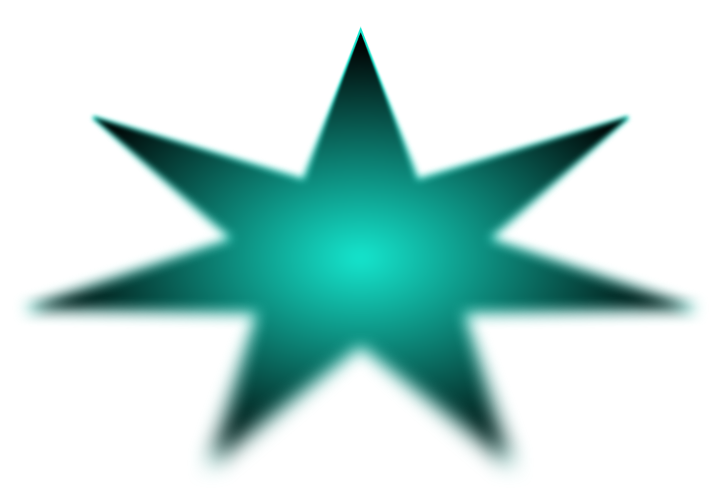
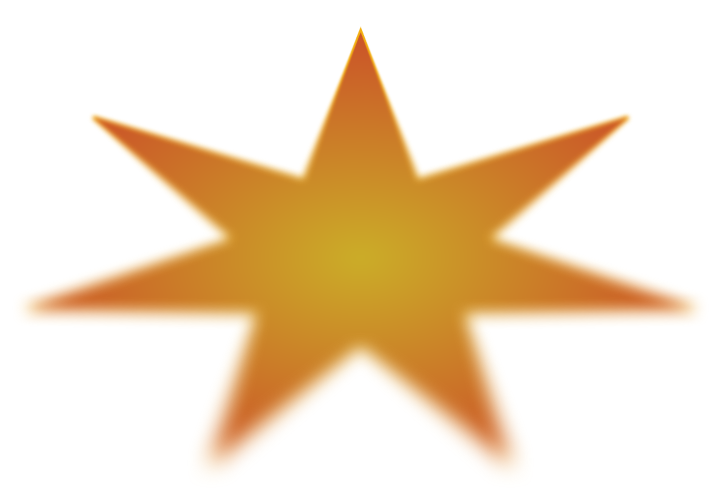
improve stats and main star is yellow

diff --git a/src/App.css b/src/App.css
@@ -108,7 +108,7 @@ body{
 .stats .left p{
   /* width: 121px; */
   border-radius: 10px;
-  padding: 6px 4px;
+  padding: 0px 0px;
   margin: 0;
   font-size: 14px;
   font-weight: 500;
@@ -117,27 +117,60 @@ body{
 .register{
   display: flex;
   /* background-color: #d9d9d9; */
-  border-radius: 5px;
+  /* border-radius: 5px; */
   align-items: center;
+  /* border: solid 1px red; */
+
 }
 .registerCount{
   width: 50px;
-  color: black;
-  background-color: white;
+  /* color: black;
+  background-color: white; */
     display: flex;
   justify-content: center;
   align-items: center;
   gap: 7px;
   font-weight: 600 !important;
 padding: 0 !important;
-height: 30px;
+/* height: 30px; */
 border-radius: 6px !important;
+  /* color: #808080; */
 
 }
+.registerCash{
+  color: #808080;
+}
+
+.loading{
+  display: flex;
+  /* border-radius: 10px; */
+  align-items: center;
+  /* border: solid 1px red; */
+
+}
+.loadingCount{
+  display: flex;
+  justify-content: center;
+  align-items: center;
+  gap: 7px;
+  /* width: 106px; */
+  width: 50px;
+  font-weight: 600 !important;
+padding: 0 !important;
+/* height: 30px; */
+  /* color: #000000; */
+  /* background-color: #ffffff; */
+border-radius: 6px !important;
+}
+.loadingCash{
+  color: #808080;
+}
+
 .cheking{
   display: flex;
-  border-radius: 10px;
+  /* border-radius: 10px; */
   align-items: center;
+  /* border: solid 1px red; */
 
   /* background-color: #CBB990; */
 }
@@ -150,11 +183,13 @@ border-radius: 6px !important;
   width: 50px;
   font-weight: 600 !important;
 padding: 0 !important;
-height: 30px;
-  color: #000000;
-  background-color: #ffffff;
+/* height: 30px; */
+  /* color: #000000;
+  background-color: #ffffff; */
 border-radius: 6px !important;
-
+}
+.chekingCash{
+  color: #808080;
 }
 
 .paid{
@@ -178,6 +213,7 @@ border-radius: 6px !important;
   align-items: start;
   font-size: 14px;
   padding: 6px;
+  gap: 2px;
   /* border: solid 1px rgb(4, 255, 0); */
 
 }

diff --git a/src/App.jsx b/src/App.jsx
@@ -8,6 +8,7 @@ import { supabase } from './lib/supabase';
 
 import courierIcon from './assets/courier.svg';
 import zoomIcon from './assets/zoom.svg';
+import loadingIcon from './assets/loading.svg';
 
 // Импорт звёзд
 import star1 from './assets/Star.png';
@@ -156,6 +157,12 @@ function App() {
     .reduce((sum, r) => sum + (Number(r.cash) || 0), 0)
     .toLocaleString('ru-RU') + ' ₽';
 
+      const countLoading = periodReferrals.filter(r => r.status === 'Ожидание').length;
+  const sumLoading = periodReferrals
+    .filter(r => r.status === 'Ожидание')
+    .reduce((sum, r) => sum + (Number(r.cash) || 0), 0)
+    .toLocaleString('ru-RU') + ' ₽';
+
   const countPaid = periodReferrals.filter(r => r.status === 'Выплачен').length;
   const sumPaid = periodReferrals
     .filter(r => r.status === 'Выплачен')
@@ -281,6 +288,10 @@ function App() {
             <div className="register">
               <p className="registerCount">{countRegister} <img src={courierIcon} alt="" /></p>
               <p className="registerCash">на {sumRegister}</p>
+            </div>
+              <div className="loading">
+              <p className="loadingCount">{countLoading} <img src={loadingIcon} alt="" /></p>
+              <p className="loadingCash">на {sumLoading}</p>
             </div>
             <div className="cheking">
               <p className="chekingCount">{countPending} <img src={zoomIcon} alt="" /></p>
